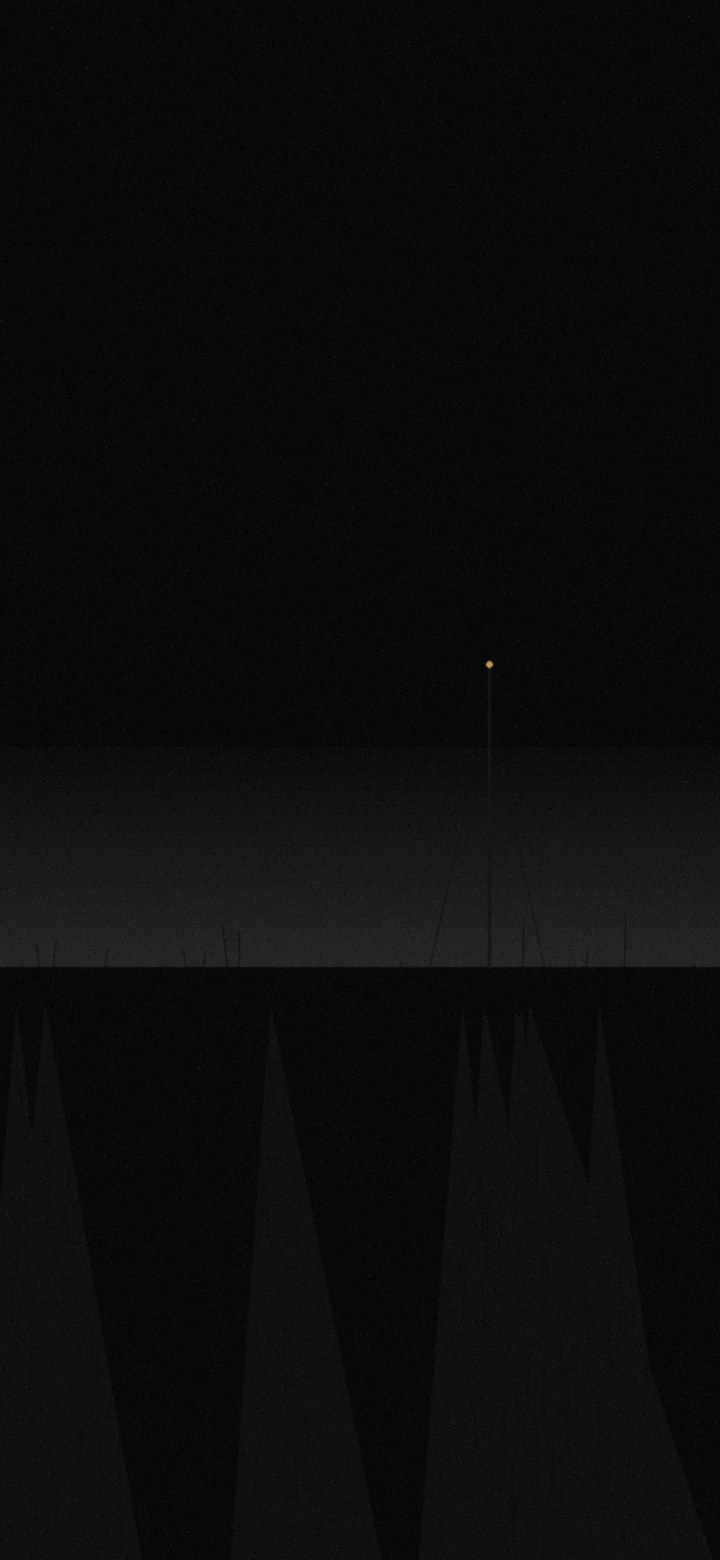
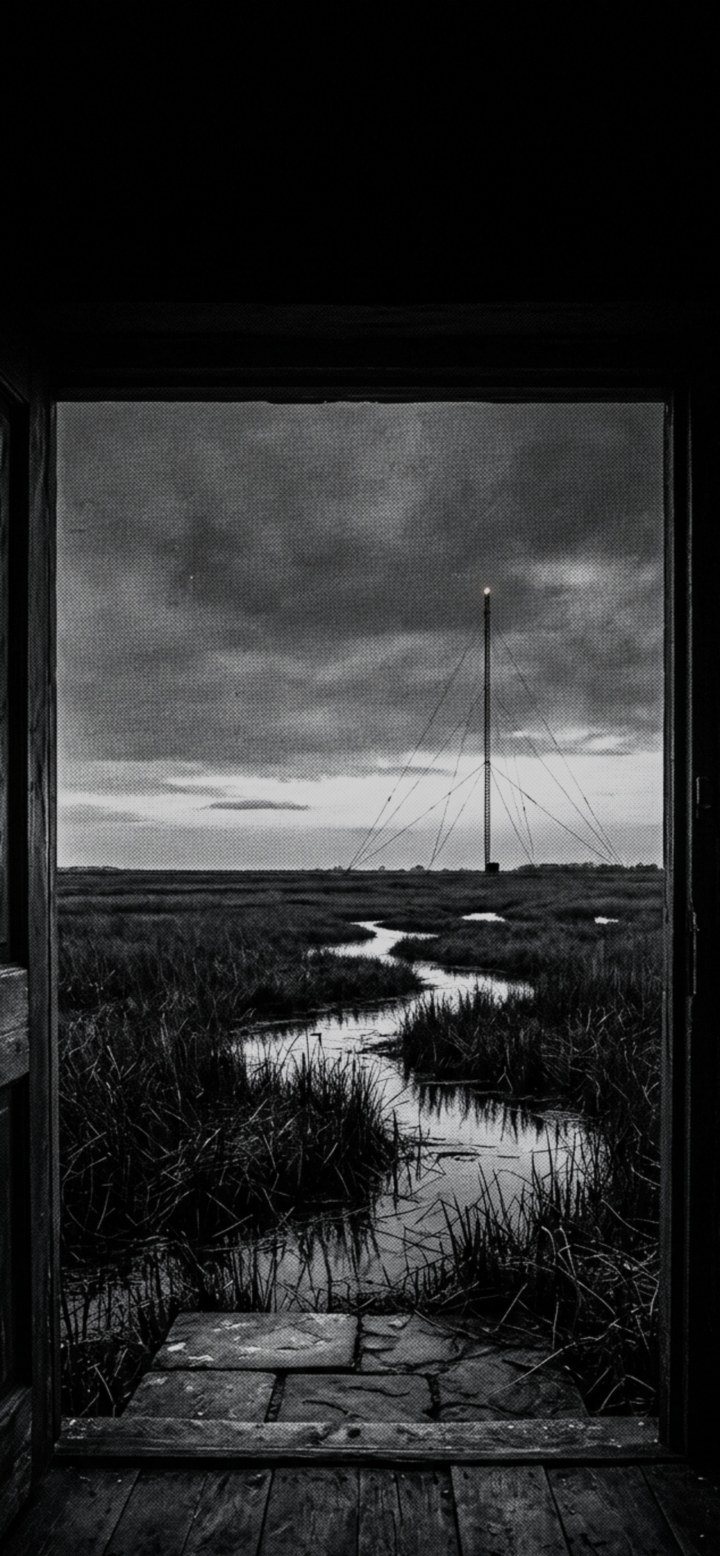
Real B2 art (Gemini set, processed) + SDK-matched sensor deps + key plate
- expo-brightness/expo-sensors corrected to the SDK 57 aligned versions
  (~57.x) — the ~14/~15 guesses were an older era and broke the Release
  build on the legacy promise API
- Simon's seven renders processed per ART.md (watermark cropped,
  near-mono with amber kept, highlight ceiling): marsh doorway backdrop,
  letter, cards, 24h clock, compass, mast, and a Morse sending key that
  earns a new finale plate (obj-key)
- ART.md records the set + originals

diff --git a/src/chapters/broadcast2.ts b/src/chapters/broadcast2.ts
@@ -259,6 +259,7 @@ export const BROADCAST_TWO: Chapter = {
       kind: 'prose',
       text: 'A sending key. Home-made, beautiful, the contacts worn bright — worn, which meant used, which meant his brother had built the answer years ago and never once dared it. The wire outside sang its thin note into the still dark. The channel stayed open. The little clock gave its tick, and its tock, like a tongue clicking gently at a hesitating child.',
     },
+    { kind: 'plate', image: 'obj-key', caption: 'the sending key · built years ago, for this' },
     { kind: 'thought', text: 'Nineteen years of listening, and the whole time the house had only ever wanted one thing said back.' },
     {
       kind: 'prose',

diff --git a/src/engine/scenes.ts b/src/engine/scenes.ts
@@ -21,6 +21,7 @@ export const SCENES: Record<SceneId, number> = {
   'obj-clock': require('../../assets/scenes/obj-clock.jpg'),
   'obj-compass': require('../../assets/scenes/obj-compass.jpg'),
   'obj-mast': require('../../assets/scenes/obj-mast.jpg'),
+  'obj-key': require('../../assets/scenes/obj-key.jpg'),
 };
 
 /** Room backdrops (full-screen ambient), distinct from object plates. */

diff --git a/src/models.ts b/src/models.ts
@@ -69,7 +69,8 @@ export type SceneId =
   | 'obj-cards'
   | 'obj-clock'
   | 'obj-compass'
-  | 'obj-mast';
+  | 'obj-mast'
+  | 'obj-key';
 
 export const AUDIO_CUES = [
   'static-swell',

diff --git a/ART.md b/ART.md
@@ -67,6 +67,24 @@ column like printed plates (`PlateBlock`, 72% width, aspect 1):
 5. Export JPEG into `assets/scenes/` with the filenames above (they are the
    `SceneId` registry keys in `src/engine/scenes.ts`).
 
+## Broadcast Two set (generated 2026-07-28, processed from ~/Downloads)
+
+Same pipeline as above (watermark CROPPED, near-mono with 15–30% color kept
+for amber/brass accents, highlight ceiling, light blur). Originals are the
+`Gemini_Generated_Image_*.png` files of 2026-07-28 — keep them.
+
+- `marsh.jpg` — marsh at dusk FRAMED IN THE HOUSE DOORWAY (the render's own
+  framing, kept: better than the open view), mast + amber lamp on horizon.
+- `obj-letter.jpg` — sealed envelope + pen on dark desk.
+- `obj-cards.jpg` — index cards banded in string, the new top card whiter.
+- `obj-clock.jpg` — brass 24-hour radio-room clock (dial carries a small
+  "SHORTWAVE RADIO" legend — darkened in treatment; optional re-shoot for a
+  textless dial).
+- `obj-compass.jpg` — WWII marching compass, lid open.
+- `obj-mast.jpg` — wooden lattice mast from below (rendered in color,
+  desaturated in processing).
+- `obj-key.jpg` — homemade brass Morse key, cloth flex.
+
 ## Icon / splash
 
 Glowing phosphor "9" — generated by `scripts/gen-icon.py` (needs the Pillow
